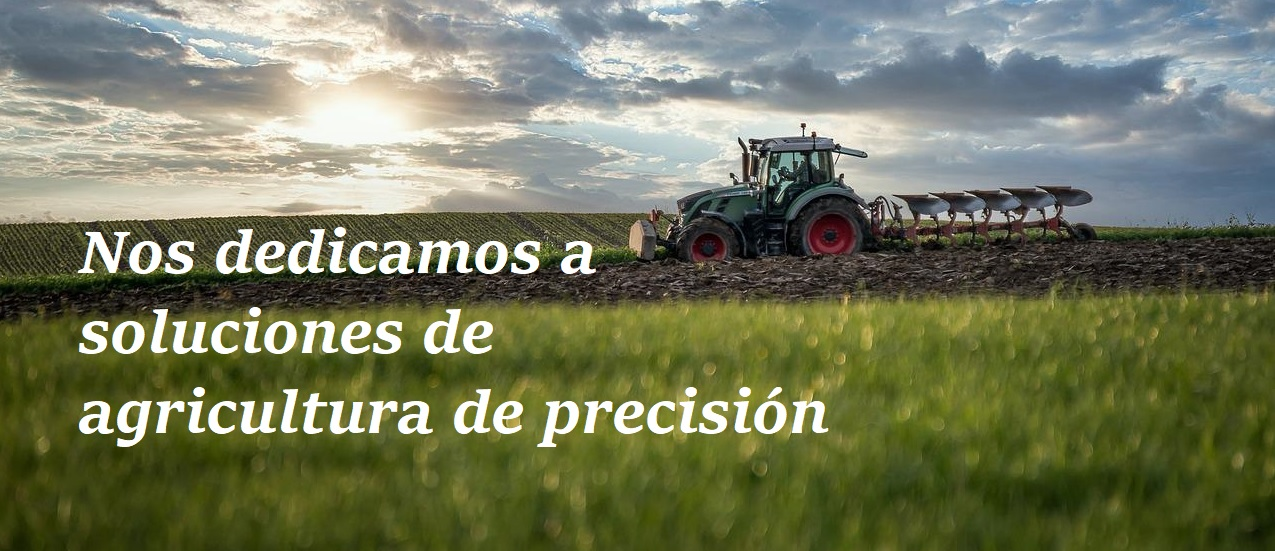
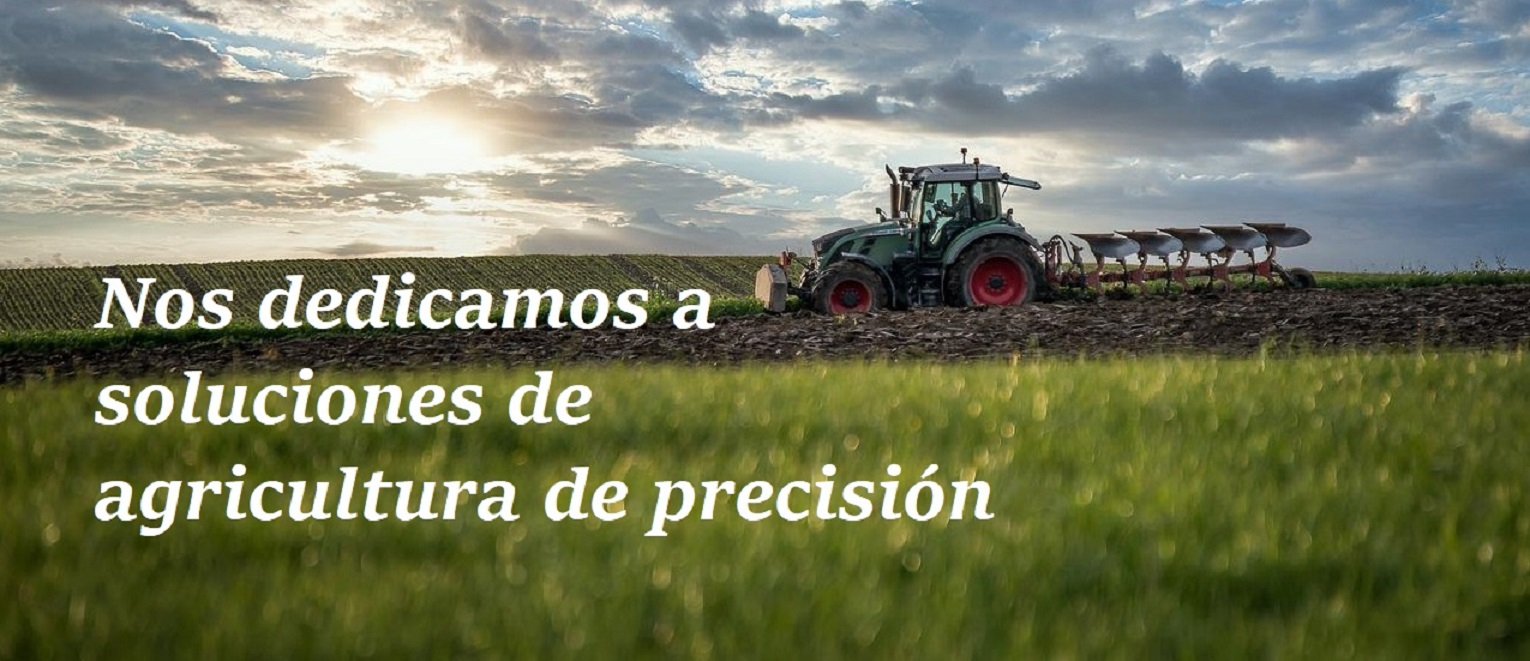
mejoras bootstrap

diff --git a/index.html b/index.html
@@ -11,7 +11,7 @@
         integrity="sha384-gH2yIJqKdNHPEq0n4Mqa/HGKIhSkIHeL5AyhkYV8i59U5AR6csBvApHHNl/vI1Bx" crossorigin="anonymous">
     <link rel="stylesheet" href="css/estilos.css">
 </head>
-<body class=class="container-fluid">
+<body class="container-fluid">
     <!-- EL HEADER LO VAMOS A MAQUETAR CON FLEXBOX -->
     <header>
         <div>
@@ -28,87 +28,95 @@
             </ul>
         </nav>
     </header>
-    <!-- SECCIÓN SERVICIOS -->
+   
+
+    <img class="img-fluid" src="img/tractor3.jpg" alt=""> 
     <div class="row">
-        <div class="col-xl-12 col-md-12 col-sm-12 text-center">
-            <img class="imagenEncabezado" src="img/tractor3.jpg" alt="">
-        </div>
-    </div>
-    <!--  
-        <div class="col-xl-3 col-md-6 col-sm-12">
-            <p>2) Esto es una columna</p>
-            <img src="https://placekitten.com/96/139" alt="imagen de gatito">
-        </div>
-
-        <div class="col-xl-3 col-md-6 col-sm-12">
-            <p>3) Esto es una columna</p>
-            <img src="https://placekitten.com/96/139" alt="imagen de gatito">
-        </div>
-
-        <div class="col-xl-3 col-md-6 col-sm-12">
-            <p>3) Esto es una columna</p>
-            <img src="https://placekitten.com/96/139" alt="imagen de gatito">
-        </div>
-    </div>
-  -->  
-  <div class="row">
-    <div class="col-xl-12 col-md-12 col-sm-12 text-center">  
-        <section id="galeria">
-            <div class="contenedor">
-                <h2>Principales productos</h2>
-                <div class="imagenContenedor">
-                    <div class="banderillero">
-                        <img class="imagenGaleria imagenUno" src="img/banderillero.jpg" alt="">
-                        <p>Banderillero Satelital</p>
+        <div class="col-xl-6 col-md-6 col-sm-12 text-center"> 
+          
+                <p class="fw-bold fs-3 p-2 bg-dark text-white">Productos</p>
+                 <div id="carouselExampleCaptions" class="carousel slide" data-bs-ride="carousel"> 
+                    <div class="carousel-inner">
+                    <div class="carousel-item active">
+                        <img class="imagenGaleria" src="img/banderillero.jpg" class="d-block w-100" alt="...">
+                        <div class="carousel-caption d-none d-md-block">
+                        <h5>Banderillero Satelital</h5>
+                        <p>Para pulverizar con precisiones superiores a 50 cm</p>
+                        </div>
                     </div>
-                    <div class="dosificador">
-                        <img class="imagenGaleria imagenUno" src="img/dosificador.png" alt="">
-                        <p>Dosificador</p>
+                    <div class="carousel-item">
+                        <img class="imagenGaleria" src="img/dosificador.png" class="d-block w-100" alt="...">
+                        <div class="carousel-caption d-none d-md-block">
+                        <h5>Dosificador de siembra</h5>
+                        <p>Aplique siembra variable georeferenciada</p>
+                        </div>
                     </div>
-                    <div class="Monitoreo de siembra">
-                        <img class="imagenGaleria imagenUno" src="img/monitoreo.jpg" alt="">
-                        <p>Monitoreo de siembra</p>
+                    <div class="carousel-item">
+                        <img class="imagenGaleria" src="img/monitoreo.jpg" class="d-block w-100" alt="...">
+                        <div class="carousel-caption d-none d-md-block">
+                        <h5>Monitoreo de Siembra</h5>
+                        <p>Controle la dosis de grano pico por pico</p>
+                        </div>
                     </div>
+                    </div>
+                    <button class="carousel-control-prev" type="button" data-bs-target="#carouselExampleCaptions" data-bs-slide="prev">
+                    <span class="carousel-control-prev-icon" aria-hidden="true"></span>
+                    <span class="visually-hidden">Previous</span>
+                    </button>
+                    <button class="carousel-control-next" type="button" data-bs-target="#carouselExampleCaptions" data-bs-slide="next">
+                    <span class="carousel-control-next-icon" aria-hidden="true"></span>
+                    <span class="visually-hidden">Next</span>
+                    </button>
                 </div>
-            </div>
-        </section>
-    </div>
-  </div>
+        </div>
+          
+        <div class="col-xl-6 col-md-6 col-sm-12 text-center">
+            <div class="textoTecnoAgro">
+                <p class="fw-bold fs-3">Agricultura de Precisión Tecno Agro</p> 
+                <p class="fs-6">Sólo Tecno Agro conecta personas, inteligencia, tecnología y máquinas para obtener mayor eficiencia y rentabilidad de forma sustentable, aplicando:</p>
+                 <ul> 
+                    <li>El elemento correcto</li>
+                    <li>En el lugar correcto</li>
+                    <li>En la medida correcta</li>
+                    <li>De forma correcta</li>
+                    <li>En el tiempo correcto</li>
 
-        
+                </ul>
+            </div>
+        </div>
+    </div>
+
+</div>
+       
 <div class="row">
     <div class="col-xl-6 col-md-12 col-sm-12 text-center">  
+        <div class="servicios">        
+         <p class="fw-bold fs-2 ">Servicios</p>
+         <p class="fs-3 fw-bold">Muestreo de Suelos</p> 
+         <p class="fs-3 fw-bold">Mapa de altimetría</p> 
+         <p class="fs-3 fw-bold">Mapa de índice verde medido con drones</p> 
 
-        <section id="servicios">
-
-            <div class="contenedor">
-                <h1>Carrousel con principales servicios</h1>
-                <h2>Servicio de pulverización por ha</h2>
-                <p>Lorem ipsum dolor sit amet consectetur, adipisicing elit. Sit dicta quod aut ex tempora suscipit porro quas, debitis asperiores totam illum quibusdam laboriosam nostrum culpa iste minima facere provident sed.
-                </p>
-            </div>
-        </section>
+        </div>
     </div>
-
     <div class="col-xl-6 col-md-12 col-sm-12 text-center"> 
-        <section id="contacto" class="contenedor">
-            <h2>Contacto</h2>
-            <p>En breve un asesor se estará comunicando con vos</p>
-            <form class="formulario">
-                <div class="contenedorInput">
-                    <input class="campo" type="text" placeholder="Ingrese su nombre">
-                    <input class="campo" type="text" placeholder="Ingrese su apellido">
-                    <input class="campo" type="email" placeholder="Ingrese su email">
-                </div>
-                <textarea class="campo" name="mensaje" id="mensaje" cols="30" rows="10"
-                    placeholder="Ingrese su mensaje"></textarea>
-                <input class="boton" type="submit">
-                <input class="boton" type="reset">
-            </form>
-        </section>
+        <h3>Formulario</h3>
+        <form>
+            <div class="mb-3">
+                <label for="exampleInputEmail1" class="form-label">Correo Electrónico</label>
+                <input type="email" class="form-control" id="exampleInputEmail1" aria-describedby="emailHelp">
+                <div id="emailHelp" class="form-text">We'll never share your email with anyone else.</div>
+            </div>
+            <div class="mb-3">
+                <label for="exampleInputEmail1" class="form-label">Nombre Completo</label>
+                <input type="email" class="form-control" id="exampleInputEmail1" aria-describedby="emailHelp">
+                <div id="emailHelp" class="form-text">We'll never share your email with anyone else.</div>
+            </div>
+            <button type="submit" class="btn btn-primary">Submit</button>
+            <button type="reset" class="btn btn-primary">Borrar todo</button>
+        </form>
     </div>
 </div>
-
+<h2><br></h2>
     <div class="botonWhatsApp">
         <img src="img/logoWhatsapp.png" alt="">
     </div>
@@ -130,7 +138,10 @@
         </div>
     </footer>
 
-    <script src="https://kit.fontawesome.com/ac484d389e.js" crossorigin="anonymous"></script>
+    <!-- JavaScript Bundle with Popper -->
+    <script src="https://cdn.jsdelivr.net/npm/bootstrap@5.2.0/dist/js/bootstrap.bundle.min.js"
+        integrity="sha384-A3rJD856KowSb7dwlZdYEkO39Gagi7vIsF0jrRAoQmDKKtQBHUuLZ9AsSv4jD4Xa"
+        crossorigin="anonymous"></script>
 </body>
 
 </html>

diff --git a/css/estilos.css b/css/estilos.css
@@ -5,8 +5,8 @@
     padding: 0;
 }
 
-body {
-    font-family: 'Roboto', sans-serif;
+.body{
+    background-color: #310900;
 }
 
 header {
@@ -16,7 +16,12 @@ header {
     display: flex;
     justify-content: space-between;
     align-items: center;
+    position: sticky;
+    top: 0;
+    /*Z-INDEX*/
+    z-index: 2;
 }
+
 
 .botonera {
     margin-right: 20px;
@@ -71,8 +76,44 @@ header {
     filter: grayscale(50%);
 }
 
+.carousel-control-prev-icon, .carousel-control-next-icon {
+    height: 40px;
+    width: 40px;
+    outline: black;
+    background-color: rgba(0, 0, 0, 0.8);
+    background-size: 100%, 100%;
+    border-radius: 50%;
+    border: 1px solid black;
+}
+.productos{
+    background-image: radial-gradient(circle at 29.63% 20.91%, #8c7d0f 0, #8a710b 10%, #86640a 20%, #7e5609 30%, #724709 40%, #643708 50%, #552805 60%, #471c00 70%, #3b1200 80%, #310900 90%, #2a0000 100%);
+}
 
+.textoTecnoAgro p{
+    height: 100%;
+    text-align: left;
+    padding-left: 3%;
+}
+.textoTecnoAgro ul{
+    height: 100%;
+    text-align: left;
+    padding-left: 5%;
+  
+}
+.textoTecnoAgro{
+ background-image: radial-gradient(circle at 87.5% 12.5%, #b6ff43 0, #95ff45 16.67%, #69fa45 33.33%, #0ced43 50%, #00e044 66.67%, #00d54b 83.33%, #00ce56 100%); 
 
+}
+.carousel-caption {
+    position: absolute; 
+    padding: 5px;
+    color: whitesmoke;
+    text-align:center;
+    background-color: rgba(83, 79, 79, 0.4); /* Añadir para conseguir el fondo con opacidad */
+    font-weight: bold;
+    
+   
+}
 .imagenContenedor {
     display: flex;
     justify-content: center;
@@ -103,7 +144,19 @@ header {
     border-radius: 4px;
     cursor: pointer;
 }
-
+.servicios
+{
+    opacity: 0.8;
+  background-image:url("../img/servicios.png");  
+  background-size: 100% 100%;
+  text-shadow: white;
+  
+    
+}
+.servicios p{
+   
+    color:blue;
+}
 
 /* SECCION FOOTER */
 
@@ -114,6 +167,7 @@ footer {
     display: flex;
     justify-content: space-evenly;
     align-items: center;
+    padding-top: 15px;
 }
 
 footer ul li {
@@ -133,6 +187,7 @@ footer h4 {
 }
 footer p{
     color:whitesmoke;
+    
 }
 
 /* BOTON DE WHATSAPP */
@@ -144,60 +199,6 @@ footer p{
     right: 10px;
 }
 
-/* APLICAMOS GRID AREA */
-@media (min-width:1024px) { 
-    .bodyPadreGrid {
-        display: grid;
-        grid-template-areas: 
-        "header header header"
-        "imagenCentral imagenCentral imagenCentral"
-        "galeria galeria galeria"
-        "servicios servicios contacto"
-        "servicios servicios contacto"
-        "footer footer footer"
-        ;    
-    } 
-}
 
-@media (min-width:768px) {
-    .bodyPadreGrid {
-        display: grid;
-        grid-template-areas: 
-        "header header"
-        "imagenCentral imagenCentral"
-        "galeria galeria"
-        "servicios contacto"
-        "servicios contacto"
-        "footer footer"
-        ;    
-    } 
-}
 
-header {
-    grid-area: header;
-    position: sticky;
-    top: 0;
-    /*Z-INDEX*/
-    z-index: 2;
-}
-
-.contenedorImagen {
-    grid-area: imagenCentral;
-}
-
-#servicios {
-    grid-area: servicios;
-}
-
-#galeria {
-    grid-area: galeria;
-}
-
-#contacto {
-    grid-area: contacto;
-}
-
-#footer {
-    grid-area: footer;
-}
 
